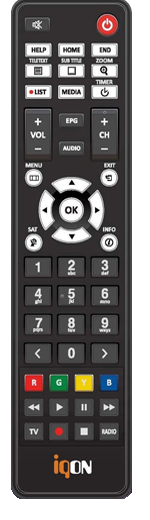
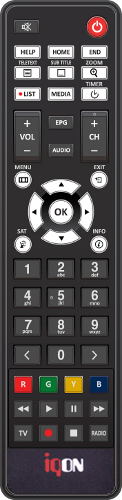
add new oem force2se

diff --git a/BoxBranding/remotes/iqon1/remote.html b/BoxBranding/remotes/iqon1/remote.html
@@ -1,79 +1,141 @@
 <img border='0' src='static/remotes/iqon1/rc.png' usemap='#map' >
 <map name="map">
-	<area shape="rect" coords="24,44,51,58" id ="138" alt="help" onclick="pressMenuRemote('138');">
-	<area shape="rect" coords="58,44,84,56" id ="172" alt="home" onclick="pressMenuRemote('172');">
-	<area shape="rect" coords="90,44,117,56" id ="107" alt="end" onclick="pressMenuRemote('107');">
-	<area shape="rect" coords="58,66,84,78" id ="370" alt="subtitle" onclick="pressMenuRemote('370');">
-	<area shape="rect" coords="24,65,51,78" id="388" alt="startTeletext" onclick="pressMenuRemote(388);">
-	<area shape="rect" coords="90,66,117,78" id="372" alt="ZoomInOut" onclick="pressMenuRemote(372);">
-	<area shape="rect" coords="24,86,51,100" id ="393" alt="videoaltlast" onclick="pressMenuRemote('393');">
-	<area shape="rect" coords="58,86,84,100" id="60" alt="showMediaPlayer" onclick="pressMenuRemote(60);">
-	<area shape="rect" coords="90,86,117,100" id="362" alt="openTimerList" onclick="pressMenuRemote(362);">
+	<area shape="rect" coords="14,19,39,33" id="113" alt="mute" onclick="pressMenuRemote('113');">
+	<area shape="rect" coords="87,16,107,35" id ="116" alt="Power" onclick="pressMenuRemote('116');">
+	<area shape="rect" coords="14,65,40,79" id ="388" alt="text" onclick="pressMenuRemote('388');">
+	<area shape="rect" coords="47,66,73,79" id ="370" alt="subtitle" onclick="pressMenuRemote('370');">
+	<area shape="rect" coords="47,44,74,59" id ="172" alt="home" onclick="pressMenuRemote('172');">
+	<area shape="rect" coords="80,44,104,59" id ="107" alt="end" onclick="pressMenuRemote('107');">
 
-	<area shape="rect" coords="24,110,50,130" id ="115" alt="volume up" onclick="pressMenuRemote('115');">
-	<area shape="rect" coords="24,145,50,160" id ="114" alt="volume down" onclick="pressMenuRemote('114');">
+	<area shape="rect" coords="13,258,40,279" id ="2" alt="1" onclick="pressMenuRemote('2');">
+	<area shape="rect" coords="47,258,74,279" id ="3" alt="2" onclick="pressMenuRemote('3');">
+	<area shape="rect" coords="81,258,109,279" id ="4" alt="3" onclick="pressMenuRemote('4');">
+	<area shape="rect" coords="13,287,40,307" id ="5" alt="4" onclick="pressMenuRemote('5');">
+	<area shape="rect" coords="47,287,74,307" id ="6" alt="5" onclick="pressMenuRemote('6');">
+	<area shape="rect" coords="81,287,109,307" id ="7" alt="6" onclick="pressMenuRemote('7');">
+	<area shape="rect" coords="13,315,40,337" id ="8" alt="7" onclick="pressMenuRemote('8');">
+	<area shape="rect" coords="47,315,74,337" id ="9" alt="8" onclick="pressMenuRemote('9');">
+	<area shape="rect" coords="81,315,109,337" id ="10" alt="9" onclick="pressMenuRemote('10');">
+	<area shape="rect" coords="47,344,74,364" id ="11" alt="0" onclick="pressMenuRemote('11');">
 
-	<area shape="rect" coords="58,112,82,130" id="365" alt="EPGPressed" onclick="pressMenuRemote(365);">
-	<area shape="rect" coords="58,142,82,160" id ="392" alt="audio" onclick="pressMenuRemote('392');">
+	<!-- Added Key -->
+	<!--<area shape="rect" coords="96,95,118,107" id="59" alt="Lan" onclick="pressMenuRemote(59);">-->
+	<area shape="circle" coords="98,179,10" id ="174" alt="exit" onclick="pressMenuRemote('174');">
 
-	<area shape="rect" coords="90,110,118,130" id ="402" alt="channelup" onclick="pressMenuRemote('402');">
-	<area shape="rect" coords="90,140,118,160" id ="403" alt="channeldown" onclick="pressMenuRemote('403');">
+	<area shape="rect" coords="80,109,107,133" id ="402" alt="channelup" onclick="pressMenuRemote('402');">
+	<area shape="rect" coords="80,137,107,162" id ="403" alt="channeldown" onclick="pressMenuRemote('403');">
+
+	<area shape="rect" coords="14,109,40,133" id ="115" alt="volume up" onclick="pressMenuRemote('115');">
+	<area shape="rect" coords="14,137,40,162" id ="114" alt="volume down" onclick="pressMenuRemote('114');">
+
+	<area shape="rect" coords="13,343,41,364" id ="412" alt="previous" onclick="pressMenuRemote('412');">
+	<area shape="rect" coords="80,343,108,364" id ="407" alt="next" onclick="pressMenuRemote('407');">
+
+	<area shape="rect" coords="14,375,32,392" id ="398" alt="red" onclick="pressMenuRemote('398');">
+	<area shape="rect" coords="38,375,57,392" id ="399" alt="green" onclick="pressMenuRemote('399');">
+	<area shape="rect" coords="64,375,83,392" id ="400" alt="yellow" onclick="pressMenuRemote('400');">
+	<area shape="rect" coords="89,375,108,392" id ="401" alt="blue" onclick="pressMenuRemote('401');">
+
+	<area shape="rect" coords="48,115,73,129" id="365" alt="EPGPressed" onclick="pressMenuRemote(365);">
+	<area shape="circle" coords="22,244,10" id="381" alt="openSatellites" onclick="pressMenuRemote(381);">
+
+	<area shape="rect" coords="81,86,107,100" id="362" alt="openTimerList" onclick="pressMenuRemote(362);">
+	<area shape="rect" coords="46,86,73,100" id="60" alt="showMediaPlayer" onclick="pressMenuRemote(60);">
+	<area shape="rect" coords="13,86,41,100" id="393" alt="showMovies" onclick="pressMenuRemote(393);">
+	<area shape="rect" coords="64,400,82,417" id="119" alt="timeshiftStart" onclick="pressMenuRemote(119);">
+	<area shape="rect" coords="38,424,57,441" id="167" alt="instantRecord" onclick="pressMenuRemote(167);">
+	<area shape="rect" coords="64,424,82,441" id="128" alt="timeshiftStop" onclick="pressMenuRemote(128);">
 
 
-	<area shape="circle" coords="32,181,16" id ="139" alt="menu" onclick="pressMenuRemote('139');">
-	<area shape="circle" coords="108,181,16" id ="174" alt="exit" onclick="pressMenuRemote('174');">
-
-	<area shape="circle" coords="32,245,16" id="381" alt="openSatellites" onclick="pressMenuRemote(381);">
-
-	<area shape="circle" coords="70,187,16" id ="103" alt="up" onclick="pressMenuRemote('103');">
-	<area shape="circle" coords="70,238,16" id ="108" alt="down" onclick="pressMenuRemote('108');">
-	<area shape="circle" coords="46,212,16" id ="105" alt="left" onclick="pressMenuRemote('105');">
-	<area shape="circle" coords="96,212,16" id ="106" alt="right" onclick="pressMenuRemote('106');">
-	<area shape="circle" coords="72,213,20" id ="352" alt="OK" onclick="pressMenuRemote('352');">
-
-	<area shape="rect" coords="24,18,48,31" id="113" alt="mute" onclick="pressMenuRemote('113');">
-	<area shape="rect" coords="96,15,116,34" id ="116" alt="Power" onclick="pressMenuRemote('116');">
-
-
-	<area shape="rect" coords="23,260,52,278" id ="2" alt="1" onclick="pressMenuRemote('2');">
-	<area shape="rect" coords="58,260,83,278" id ="3" alt="2" onclick="pressMenuRemote('3');">
-	<area shape="rect" coords="91,260,118,278" id ="4" alt="3" onclick="pressMenuRemote('4');">
-	<area shape="rect" coords="23,287,52,307" id ="5" alt="4" onclick="pressMenuRemote('5');">
-	<area shape="rect" coords="58,287,83,307" id ="6" alt="5" onclick="pressMenuRemote('6');">
-	<area shape="rect" coords="91,287,118,307" id ="7" alt="6" onclick="pressMenuRemote('7');">
-	<area shape="rect" coords="23,318,52,336" id ="8" alt="7" onclick="pressMenuRemote('8');">
-	<area shape="rect" coords="58,318,83,336" id ="9" alt="8" onclick="pressMenuRemote('9');">
-	<area shape="rect" coords="91,318,118,336" id ="10" alt="9" onclick="pressMenuRemote('10');">
-	<area shape="rect" coords="58,346,83,363" id ="11" alt="0" onclick="pressMenuRemote('11');">
-
-	<area shape="rect" coords="23,346,52,363" id ="412" alt="previous" onclick="pressMenuRemote('412');">
-	<area shape="rect" coords="91,346,118,363" id ="407" alt="next" onclick="pressMenuRemote('407');">
-
-	<area shape="rect" coords="23,375,42,393" id ="398" alt="red" onclick="pressMenuRemote('398');">
-	<area shape="rect" coords="50,375,69,393" id ="399" alt="green" onclick="pressMenuRemote('399');">
-	<area shape="rect" coords="76,375,93,393" id ="400" alt="yellow" onclick="pressMenuRemote('400');">
-	<area shape="rect" coords="100,375,119,393" id ="401" alt="blue" onclick="pressMenuRemote('401');">
-
-	<area shape="rect" coords="98,62,118,72" id="113" alt="mute" onclick="pressMenuRemote('113');">
-	<area shape="rect" coords="96,15,116,34" id ="116" alt="Power" onclick="pressMenuRemote('116');">
-	<area shape="rect" coords="24,65,50,78" id ="388" alt="text" onclick="pressMenuRemote('388');">
-
-	<area shape="circle" coords="33,280,20" id="381" alt="openSatellites" onclick="pressMenuRemote(381);">
-
-	<area shape="rect" coords="20,342,48,355" id="393" alt="showMovies" onclick="pressMenuRemote(393);">
-	<area shape="rect" coords="76,401,93,416" id="119" alt="timeshiftStart" onclick="pressMenuRemote(119);">
-	<area shape="rect" coords="76,424,93,440" id="128" alt="timeshiftStop" onclick="pressMenuRemote(128);">
-
-	<area shape="circle" coords="108,240,16" id ="358" alt="Info" onclick="pressMenuRemote('358');">
-
-	<!-- Fastforward, rewind -->
-	<area shape="rect" coords="23,400,42,416" id ="168" alt="rewind" onclick="pressMenuRemote('168');">
-	<area shape="rect" coords="50,400,69,416" id ="207" alt="play" onclick="pressMenuRemote('207');">
-	<area shape="rect" coords="75,400,94,416" id ="119" alt="pause" onclick="pressMenuRemote('119');">
-	<area shape="rect" coords="100,400,118,416" id ="208" alt="forward" onclick="pressMenuRemote('208');">
+	<!-- Fastforward , rewind -->
+	<area shape="rect" coords="89,400,108,417" id="208" alt="seekFwd" onclick="pressMenuRemote(208);">
+	<area shape="rect" coords="38,400,57,417" id="207" alt="playpauseService" onclick="pressMenuRemote(207);">
+	<area shape="rect" coords="13,400,32,417" id="168" alt="seekBack" onclick="pressMenuRemote(168);">
 
 	<!-- Key Radio, and Tv -->
-	<area shape="rect" coords="100,424,118,440" id="385" alt="radio" onclick="pressMenuRemote(385);">
-	<area shape="rect" coords="23,424,42,440" id="377" alt="tv" onclick="pressMenuRemote(377);">
-	<area shape="rect" coords="50,424,69,440" id ="167" alt="record" onclick="pressMenuRemote('167');">
+	<area shape="rect" coords="89,424,107,441" id="385" alt="keyRadio" onclick="pressMenuRemote(385);">
+	<area shape="rect" coords="14,424,31,441" id="377" alt="showTv" onclick="pressMenuRemote(377);">
+
+	<!-- Zoom , subtitle, teletext -->
+	<area shape="rect" coords="80,65,106,79" id="372" alt="ZoomInOut" onclick="pressMenuRemote(372);">
+	<area shape="rect" coords="47,65,73,79" id="370" alt="subtitleSelection" onclick="pressMenuRemote(370);">
+	<area shape="rect" coords="13,65,40,79" id="388" alt="startTeletext" onclick="pressMenuRemote(388);">
+
+	<!-- Power-->
+	<!--<area shape="rect" coords="87,315,107,36" id="116" alt="power_down" onclick="pressMenuRemote(116);">-->
+
+	<!-- Rf modulator -->
+	<!--<area shape="rect" coords="98,114,116,124" id="63" alt="showRFmod" onclick="pressMenuRemote(63);">-->
+	<area shape="circle" coords="99,244,10" id ="358" alt="Info" onclick="pressMenuRemote('358');">
+
+	<area shape="circle" coords="61,184,7" id ="103" alt="up" onclick="pressMenuRemote('103');">
+	<area shape="circle" coords="61,238,7" id ="108" alt="down" onclick="pressMenuRemote('108');">
+	<area shape="circle" coords="33,211,7" id ="105" alt="left" onclick="pressMenuRemote('105');">
+	<area shape="circle" coords="86,211,7" id ="106" alt="right" onclick="pressMenuRemote('106');">
+
+	<area shape="circle" coords="61,211,15" id ="352" alt="OK" onclick="pressMenuRemote('352');">
+	<area shape="rect" coords="47,143,72,157" id ="392" alt="audio" onclick="pressMenuRemote('392');">
+
+	<area shape="circle" coords="22,178,10" id ="139" alt="menu" onclick="pressMenuRemote('139');">
+	<area shape="rect" coords="38,423,57,441" id ="167" alt="record" onclick="pressMenuRemote('167');">
+	<area shape="rect" coords="13,86,40,100" id ="393" alt="videoaltlast" onclick="pressMenuRemote('393');">
+
+	<area shape="rect" coords="13,44,40,59" id ="138" alt="help" onclick="pressMenuRemote('138');">
+
+	<area shape="rect" coords="14,400,32,417" id ="168" alt="rewind" onclick="pressMenuRemote('168');">
+	<area shape="rect" coords="38,400,58,417" id ="207" alt="play" onclick="pressMenuRemote('207');">
+	<area shape="rect" coords="64,400,82,417" id ="119" alt="pause" onclick="pressMenuRemote('119');">
+	<area shape="rect" coords="89,400,107,417" id ="208" alt="forward" onclick="pressMenuRemote('208');">
+	<area shape="rect" coords="13,424,31,441" id ="377" alt="tv" onclick="pressMenuRemote('377');">
+
+
+	<area shape="rect" coords="63,424,82,440" id ="128" alt="stop" onclick="pressMenuRemote('128');">
+	<area shape="circle" coords="90,424,107,440" id ="385" alt="radio" onclick="pressMenuRemote('385');">
 </map>
+<!--
+	<area shape="circle" coords="33,28,15" id="113" alt="mute" onclick="pressMenuRemote('113');">
+	<area shape="circle" coords="105,28,15" id ="116" alt="Power" onclick="pressMenuRemote('116');">
+	<area shape="circle" coords="33,53,15" id ="388" alt="text" onclick="pressMenuRemote('388');">
+	<area shape="circle" coords="58,53,15" id ="370" alt="subtitle" onclick="pressMenuRemote('370');">
+	<area shape="circle" coords="82,53,15" id ="102" alt="home" onclick="pressMenuRemote('102');">
+	<area shape="circle" coords="105,53,15" id ="107" alt="end" onclick="pressMenuRemote('107');">
+	<area shape="circle" coords="38,79,15" id ="2" alt="1" onclick="pressMenuRemote('2');">
+	<area shape="circle" coords="70,79,15" id ="3" alt="2" onclick="pressMenuRemote('3');">
+	<area shape="circle" coords="102,79,15" id ="4" alt="3" onclick="pressMenuRemote('4');">
+	<area shape="circle" coords="38,106,15" id ="5" alt="4" onclick="pressMenuRemote('5');">
+	<area shape="circle" coords="70,106,15" id ="6" alt="5" onclick="pressMenuRemote('6');">
+	<area shape="circle" coords="102,106,15" id ="7" alt="6" onclick="pressMenuRemote('7');">
+	<area shape="circle" coords="38,133,15" id ="8" alt="7" onclick="pressMenuRemote('8');">
+	<area shape="circle" coords="70,133,15" id ="9" alt="8" onclick="pressMenuRemote('9');">
+	<area shape="circle" coords="102,133,15" id ="10" alt="9" onclick="pressMenuRemote('10');">
+	<area shape="circle" coords="38,161,15" id ="412" alt="previous" onclick="pressMenuRemote('412');">
+	<area shape="circle" coords="70,161,15" id ="11" alt="0" onclick="pressMenuRemote('11');">
+	<area shape="circle" coords="102,161,15" id ="407" alt="next" onclick="pressMenuRemote('407');">
+	<area shape="circle" coords="33,186,15" id ="398" alt="red" onclick="pressMenuRemote('398');">
+	<area shape="circle" coords="58,186,15" id ="399" alt="green" onclick="pressMenuRemote('399');">
+	<area shape="circle" coords="82,186,15" id ="400" alt="yellow" onclick="pressMenuRemote('400');">
+	<area shape="circle" coords="105,186,15" id ="401" alt="blue" onclick="pressMenuRemote('401');">
+	<area shape="circle" coords="70,213,15" id ="103" alt="up" onclick="pressMenuRemote('103');">
+	<area shape="circle" coords="70,283,15" id ="108" alt="down" onclick="pressMenuRemote('108');">
+	<area shape="circle" coords="35,248,15" id ="105" alt="left" onclick="pressMenuRemote('105');">
+	<area shape="circle" coords="105,248,15" id ="106" alt="right" onclick="pressMenuRemote('106');">
+	<area shape="circle" coords="70,248,20" id ="352" alt="OK" onclick="pressMenuRemote('352');">
+	<area shape="circle" coords="40,307,15" id ="115" alt="volume up" onclick="pressMenuRemote('115');">
+	<area shape="circle" coords="40,338,13" id ="114" alt="volume down" onclick="pressMenuRemote('114');">
+	<area shape="circle" coords="70,310,15" id ="174" alt="exit" onclick="pressMenuRemote('174');">
+	<area shape="circle" coords="70,334,15" id ="358" alt="epg" onclick="pressMenuRemote('358');">
+	<area shape="circle" coords="99,307,15" id ="402" alt="channelup" onclick="pressMenuRemote('402');">
+	<area shape="circle" coords="99,338,15" id ="403" alt="channeldown" onclick="pressMenuRemote('403');">
+	<area shape="circle" coords="36,362,15" id ="139" alt="menu" onclick="pressMenuRemote('139');">
+	<area shape="circle" coords="59,362,15" id ="393" alt="videoaltlast" onclick="pressMenuRemote('393');">
+	<area shape="circle" coords="81,362,15" id ="392" alt="audio" onclick="pressMenuRemote('392');">
+	<area shape="circle" coords="104,362,15" id ="138" alt="help" onclick="pressMenuRemote('138');">
+	<area shape="circle" coords="36,383,15" id ="168" alt="rewind" onclick="pressMenuRemote('168');">
+	<area shape="circle" coords="59,383,15" id ="207" alt="play" onclick="pressMenuRemote('207');">
+	<area shape="circle" coords="81,383,15" id ="119" alt="pause" onclick="pressMenuRemote('119');">
+	<area shape="circle" coords="104,383,15" id ="208" alt="forward" onclick="pressMenuRemote('208');">
+	<area shape="circle" coords="36,405,15" id ="377" alt="tv" onclick="pressMenuRemote('377');">
+	<area shape="circle" coords="59,405,15" id ="167" alt="record" onclick="pressMenuRemote('167');">
+	<area shape="circle" coords="81,405,15" id ="128" alt="stop" onclick="pressMenuRemote('128');">
+	<area shape="circle" coords="104,405,15" id ="385" alt="radio" onclick="pressMenuRemote('385');">
+	-->

diff --git a/BoxBranding/RcModel.py b/BoxBranding/RcModel.py
@@ -80,9 +80,9 @@ class RcModel:
 			remotefolder = 'mediabox'
 		elif machinebrand == 'XSARIUS':
 			remotefolder = 'fusionhd'
-		elif boxtype in ('iqonios100hd', 'iqonios200hd', 'iqonios300hd', 'iqonios300hdv2', 'roxxs200hd', 'mediaart200hd'):
+		elif boxtype in ('iqonios100hd', 'iqonios200hd', 'iqonios300hd', 'iqonios300hdv2', 'roxxs200hd', 'mediaart200hd', 'force2se', 'force2', 'force2plus'):
 			remotefolder = 'iqon1'
-		elif boxtype in ('force1', 'force1plus', 'worldvisionf1', 'worldvisionf1plus', 'force2', 'force2plus'):
+		elif boxtype in ('force1', 'force1plus', 'worldvisionf1', 'worldvisionf1plus'):
 			remotefolder = 'iqon2'
 		elif boxtype in ('formuler1', 'formuler3'):
 			remotefolder = 'formuler1'
